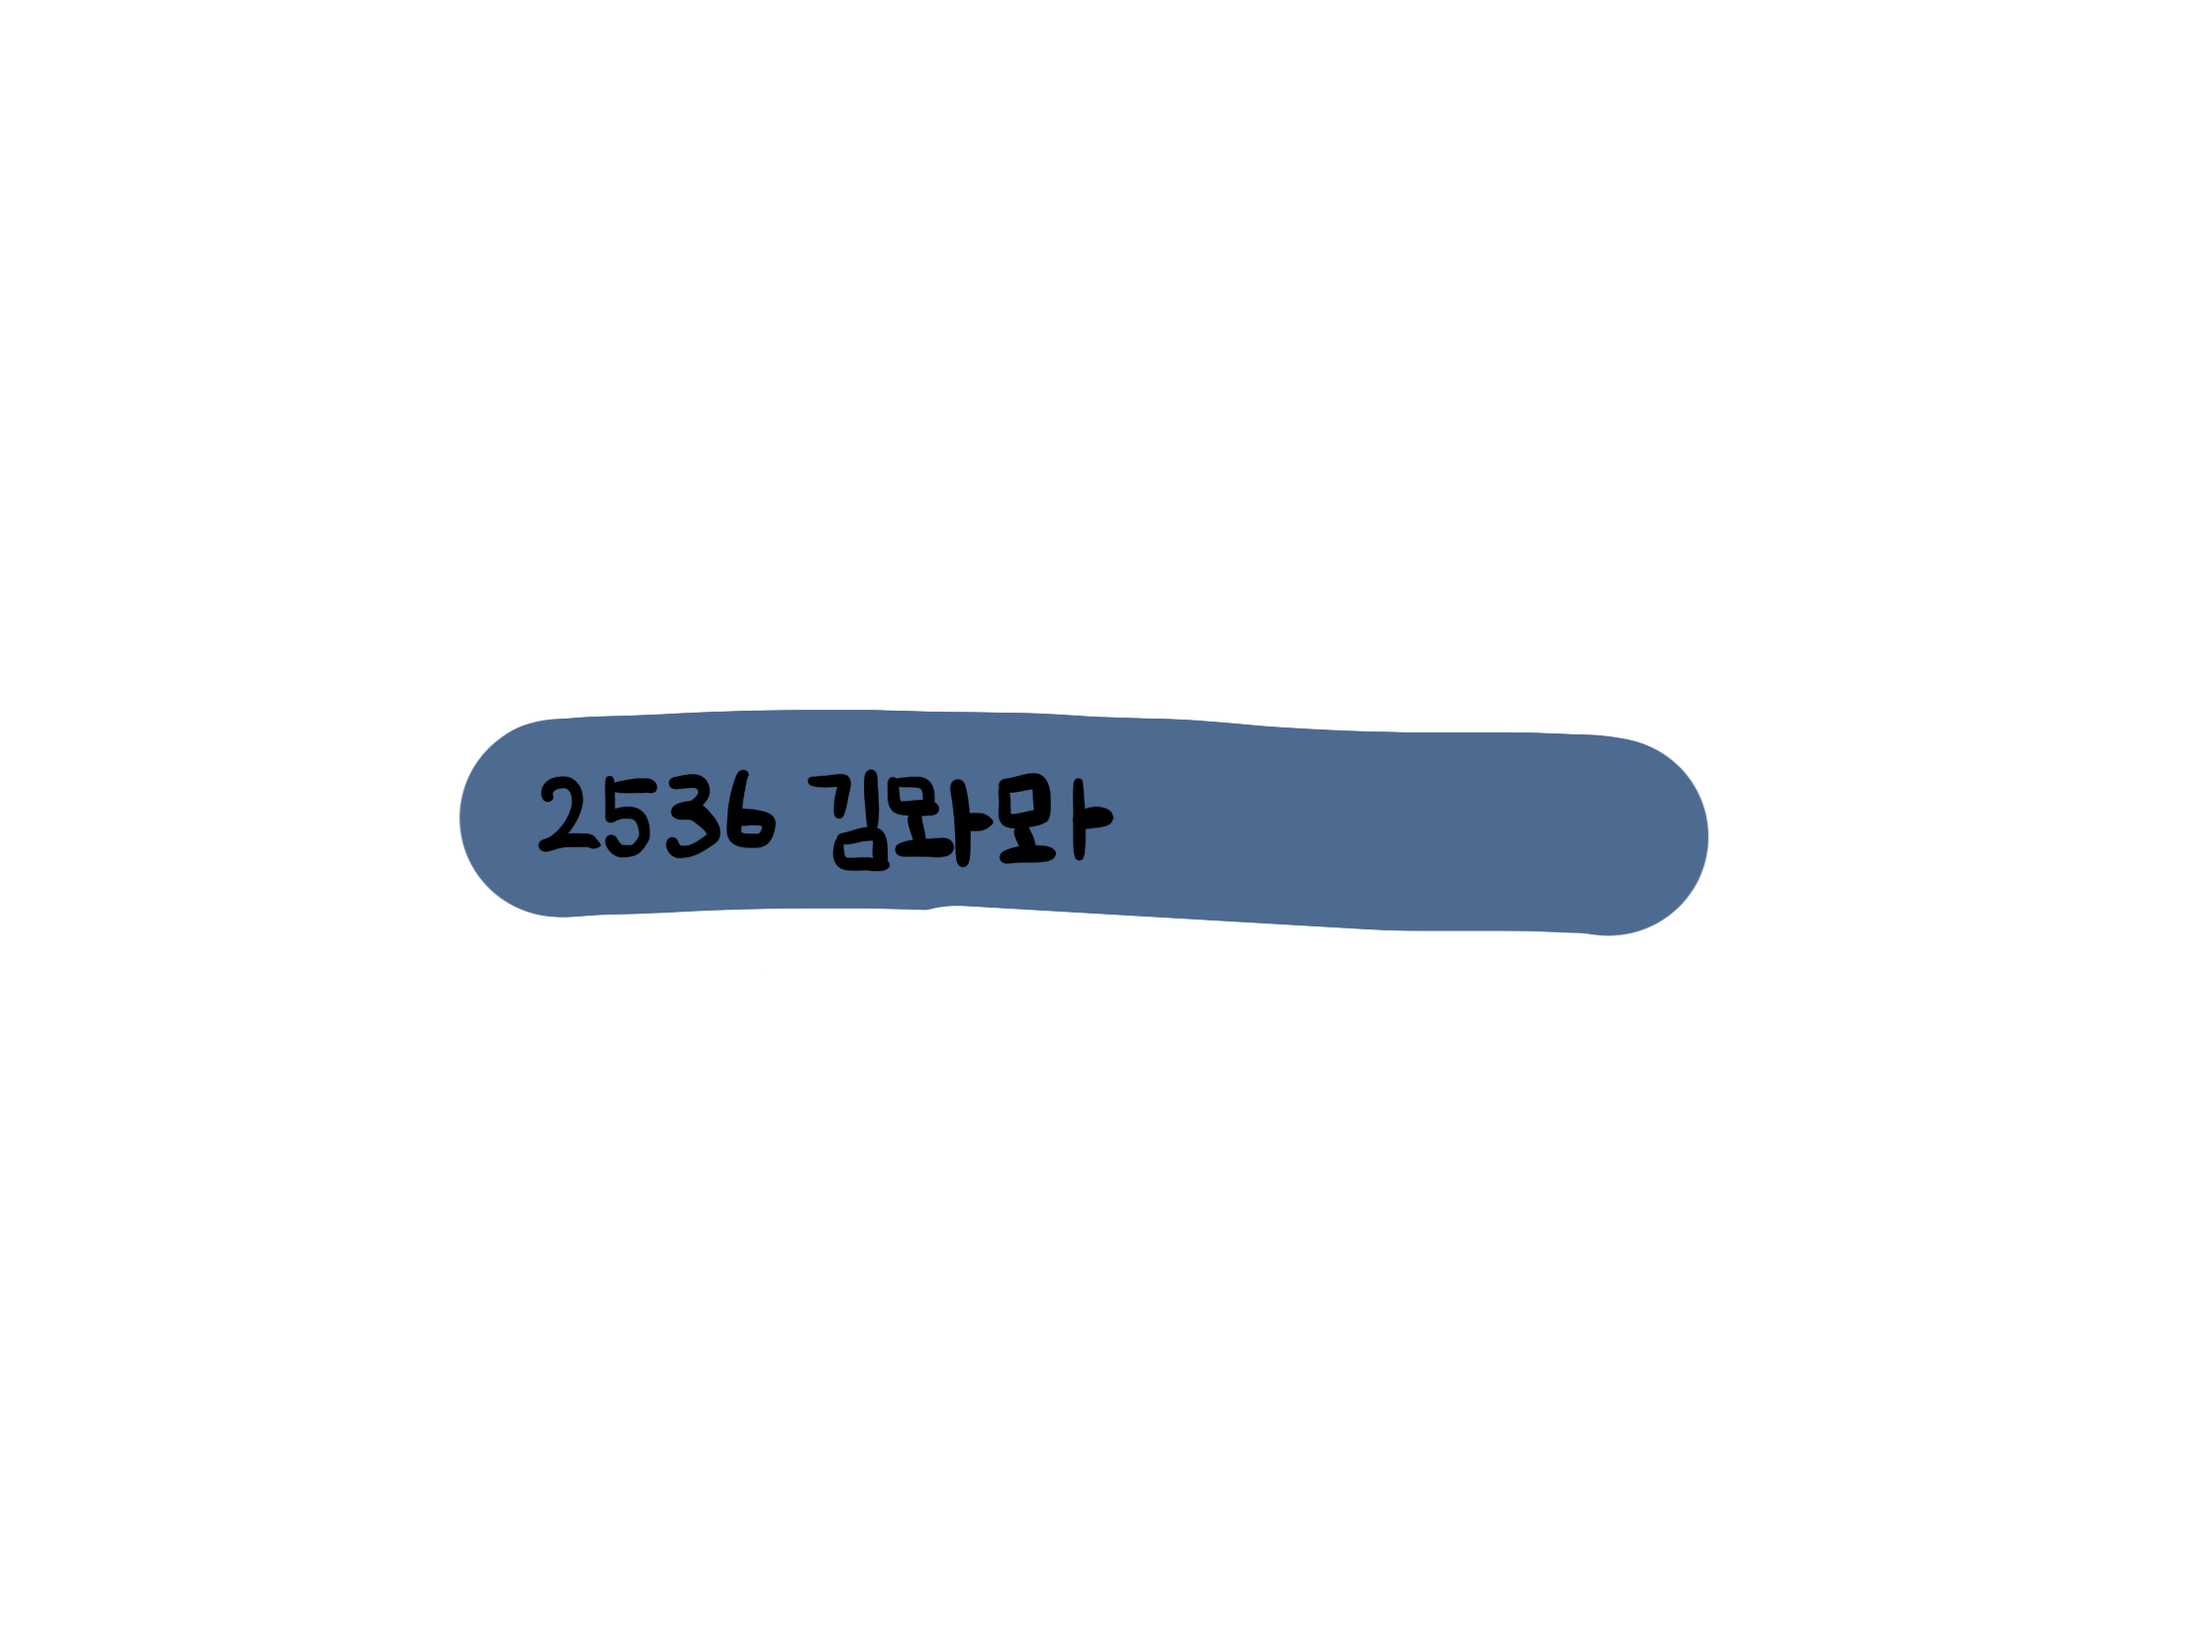
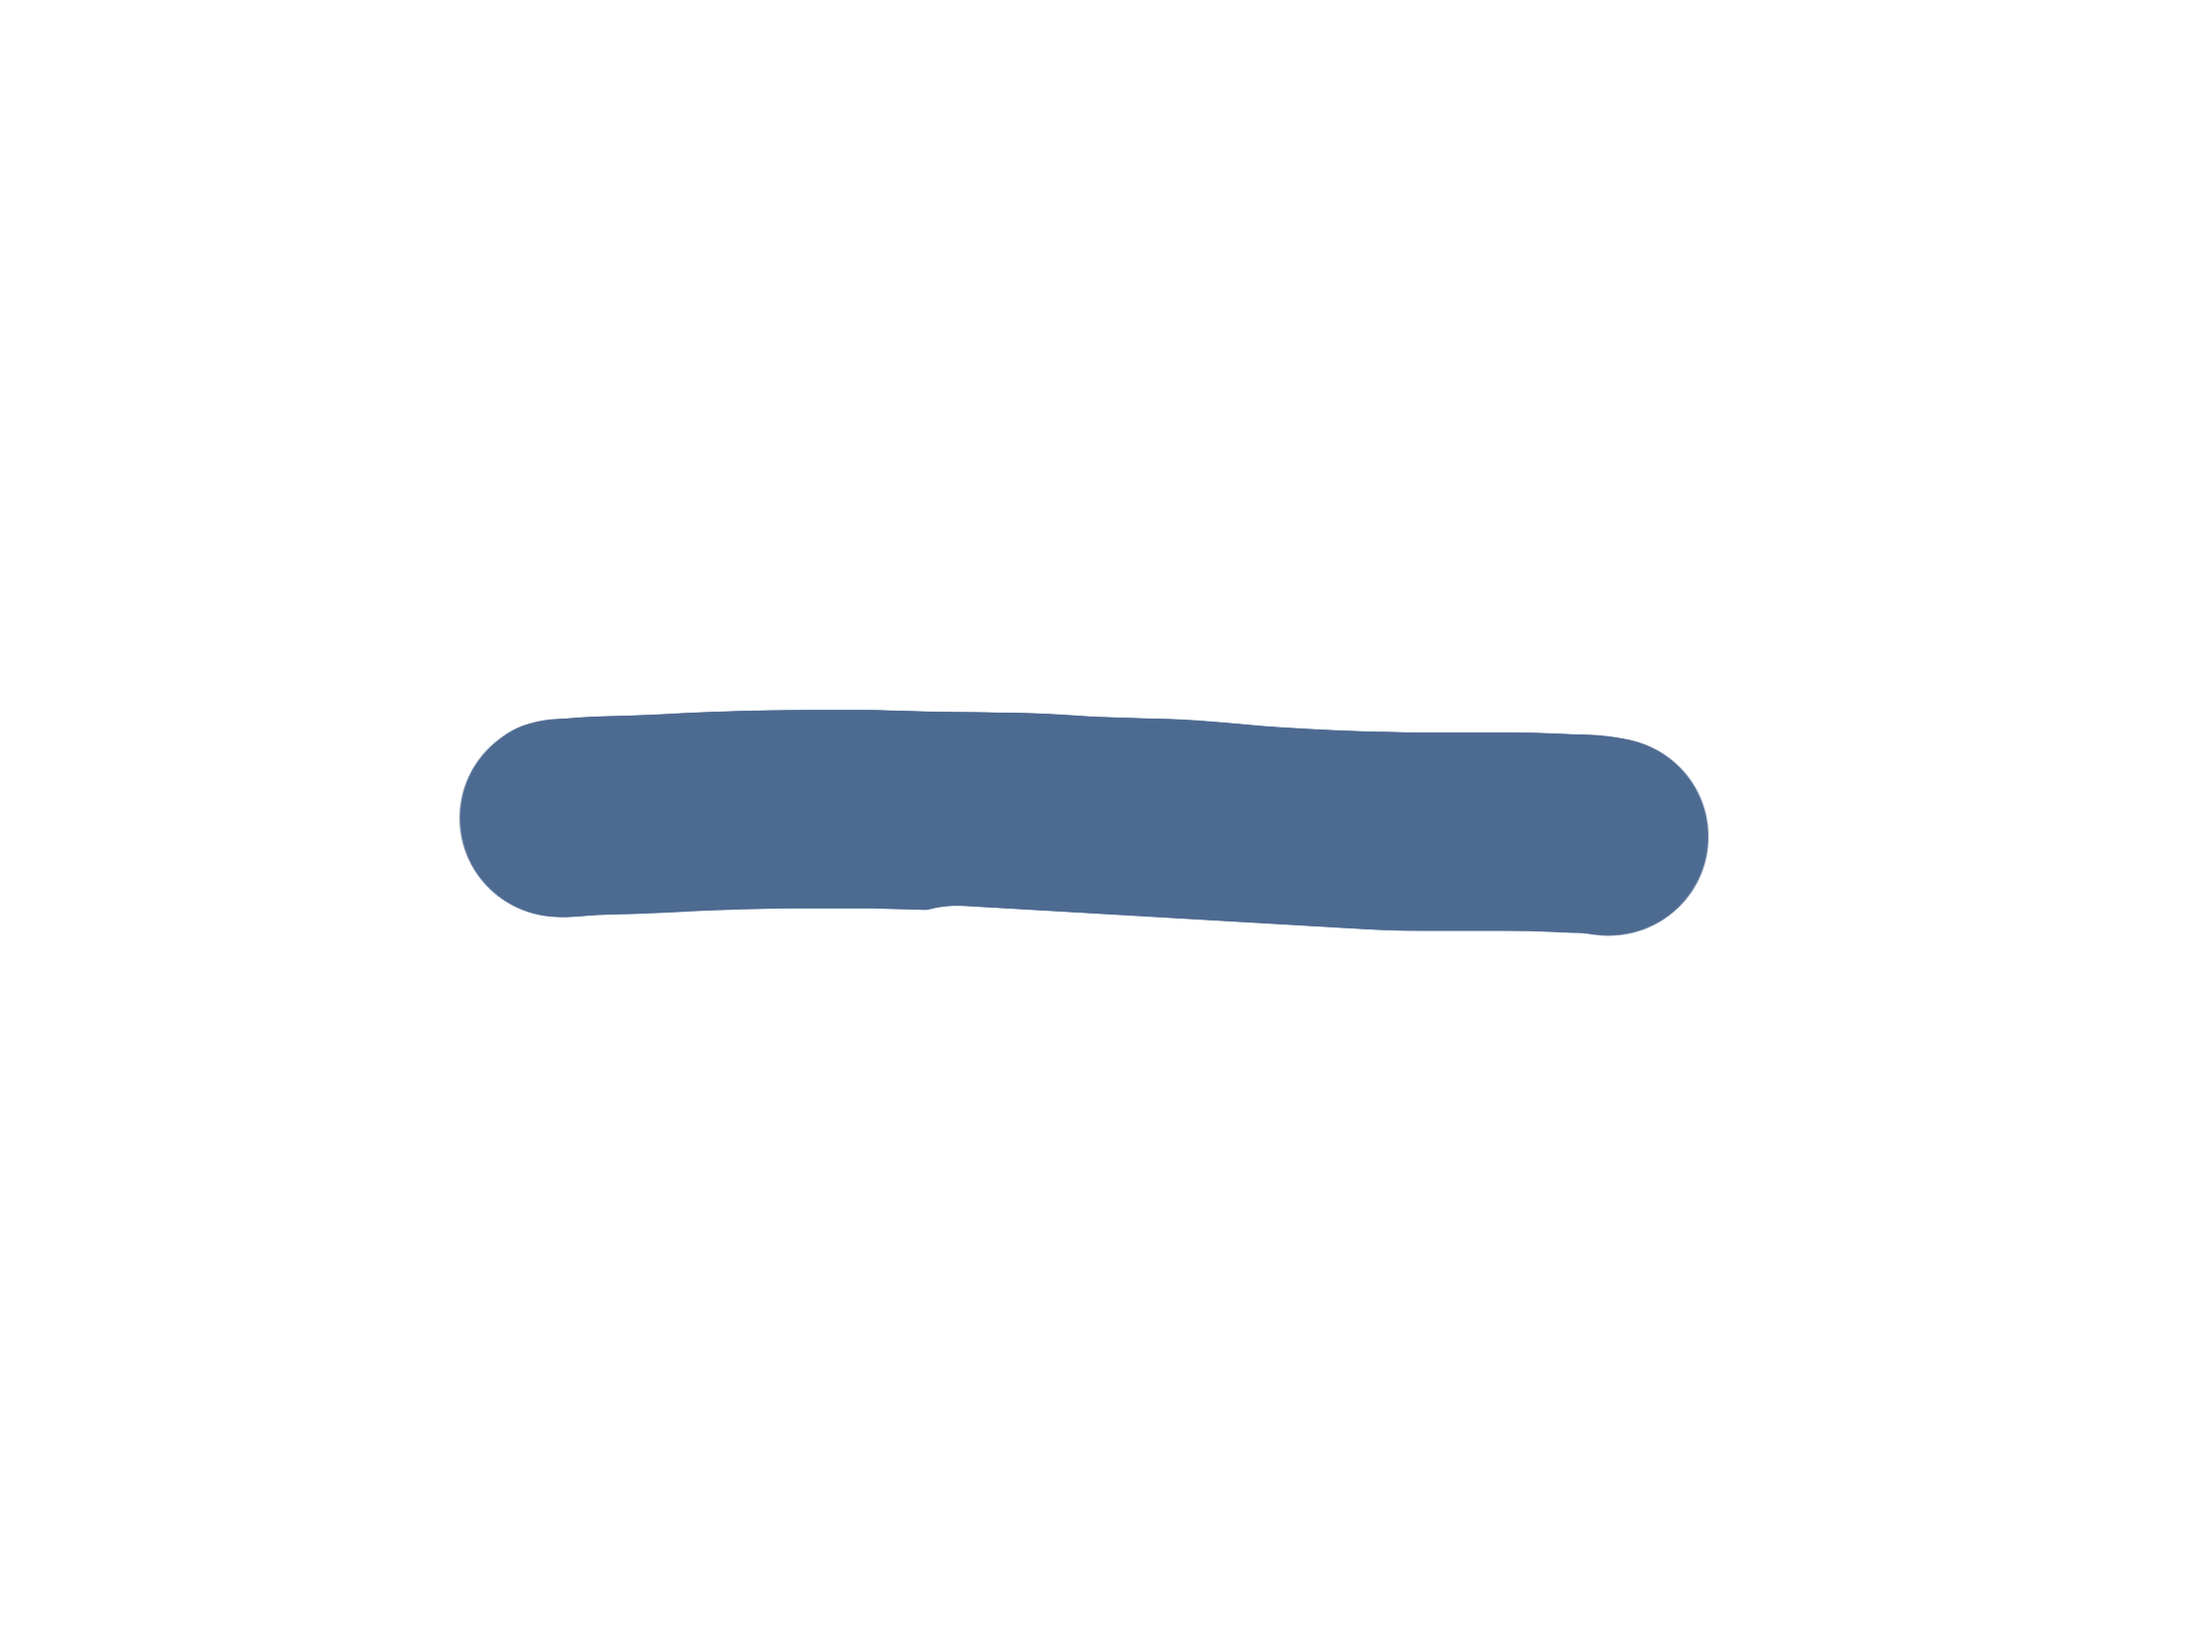
Font & Caret

Changed region(s): [[0.2482, 0.4676, 0.4964, 0.53]]

diff --git a/js/zoom.js b/js/zoom.js
@@ -5,7 +5,6 @@ window.onload = () => {
 
 function initialize() {
   showStart();
-  // showList();
 }
 
 let completed = [false, false, false, false];
@@ -95,7 +94,6 @@ function setNames() {
           let target = (evt.target.tagName == "DIV") ? evt.target : evt.target.parentElement;
           let id = `${selectedTeacher}-${target.id}`;
           let orgInnerHTML = target.innerHTML;
-  
           let randNum = Math.random() * 100;
           if(randNum <= 45) {
             id = `${id}-1`;
@@ -104,10 +102,8 @@ function setNames() {
             id = `${id}-2`;
             updateScore(score, 100);
           } 
-  
           target.innerHTML = `<img src="./img/${id}.png" class="blockImg"/>`;
           setTimeout(() => { target.innerHTML = orgInnerHTML }, 5000);
-          
         }
       });
     }
@@ -139,9 +135,11 @@ function updateList() {
 
 function setButtons() {
   let buttons = [...document.getElementsByClassName("bt")];
-  let bt1 = document.getElementById("mainBt1");
-  let bt2 = document.getElementById("mainBt2");
-  let backBt = document.getElementById("backCaret");
+  let mainBt1 = document.getElementById("mainBt1");
+  let mainBt2 = document.getElementById("mainBt2");
+  let WayToMainBt = document.getElementById("WayToMain");
+  let MeetToMainBt = document.getElementById("MeetToMain");
+  let ListToMeet = document.getElementById("ListToMeet");
   let meetBt = document.getElementById("meetBt");
 
   buttons.forEach((button) => {
@@ -153,11 +151,13 @@ function setButtons() {
     });
   });
 
-  bt1.addEventListener("click", () => showGameWay());
-  backBt.addEventListener("click", () => showStart());
+  WayToMainBt.addEventListener("click", showStart);
+  MeetToMainBt.addEventListener("click", showStart);
+  ListToMeet.addEventListener("click", showMeet);
 
-  bt2.addEventListener("click", () => showMeet());
-  meetBt.addEventListener("click", () => showList());
+  mainBt1.addEventListener("click", showGameWay);
+  mainBt2.addEventListener("click", showMeet);
+  meetBt.addEventListener("click",  showList);
   updateList();
 }
 
@@ -218,8 +218,4 @@ function updateScore(orgScore, dScore) {
   document.getElementById("scoreDelta").innerHTML = deltaScore;
   scores[selectedTeacher] = score;
   setTimeout(() => { document.getElementById("scoreDelta").innerHTML = ""; }, 500);
-}
-
-function hide(element) {
-  element.style.display = "none";
 }

diff --git a/css/zoom.css b/css/zoom.css
@@ -1,5 +1,15 @@
+@font-face { 
+  font-family: 'Bazzi'; 
+  src: url('https://cdn.jsdelivr.net/gh/projectnoonnu/noonfonts_20-04@2.1/Bazzi.woff') format('woff'); 
+  font-weight: normal; 
+  font-style: normal; 
+}
+
 body {
   background-color: darkslategrey;
+  font-family: 'Bazzi'; 
+  font-weight: bold; 
+  font-style: normal; 
 }
 
 p {
@@ -43,7 +53,17 @@ p {
   width: 40%;
 }
 
+.backCaret {
+  z-index: 200;
+  margin: 20px 10px 0 30px;
+  font-size: 100px;
+  color: coral;
+  display: inline;
+}
 
+.backCaret:hover {
+  color: lightcoral;
+}
 
 #wayContainer {
   width: 100%;
@@ -56,18 +76,6 @@ p {
 #wayContainer #way {
   height: 100%;
 }
-
-#wayContainer #backCaret {
-  margin: 20px 10px 0 30px;
-  font-size: 100px;
-  color: coral;
-  display: inline;
-}
-
-#wayContainer #backCaret:hover {
-  color: lightcoral;
-}
-
 
 
 #meetContainer {
@@ -102,6 +110,20 @@ p {
   width: 600px;
   left: 0;
   right: 0;
+}
+
+#meetInput {
+  background: transparent;
+  border: none;
+  outline: none;
+  font-size: 40px;
+  position: absolute;
+  z-index: 200;
+  width: 300px;
+  height: 55px;
+  top: 244px;
+  left: 190px;
+  border-radius: 10px;
 }
 
 

diff --git a/zoom.html b/zoom.html
@@ -14,16 +14,18 @@
         <img src="./img/button/mainBt2.png" class="mainBt bt" id="mainBt2"/>
       </div>
       <div id="wayContainer"> 
-        <i class="fa fa-caret-left caret" id="backCaret"></i>
+        <i class="fa fa-caret-left backCaret" id="WayToMain"></i>
         <img src="./img/gameway.png" id="way"> 
       </div>
       <div id="meetContainer">
-        <i class="fa fa-caret-left caret" id="backCaret"></i>
+        <i class="fa fa-caret-left backCaret" id="MeetToMain"></i>
         <img src="./img/meet.png" id="meetBack">
         <img src="./img/button/meetBt.png" class="bt" id="meetBt">
         <img src="./img/meetName.png" id="meetName">
+        <input type="text" id="meetInput" value="2536 김뫄뫄">
       </div>
       <div id="listContainer">
+        <i class="fa fa-caret-left backCaret" id="ListToMeet"></i>
         <img src="./img/list.png" id="listBack">
         <div id="listButtons">
           <img src="./img/button/listBt.png" class="listBt">
